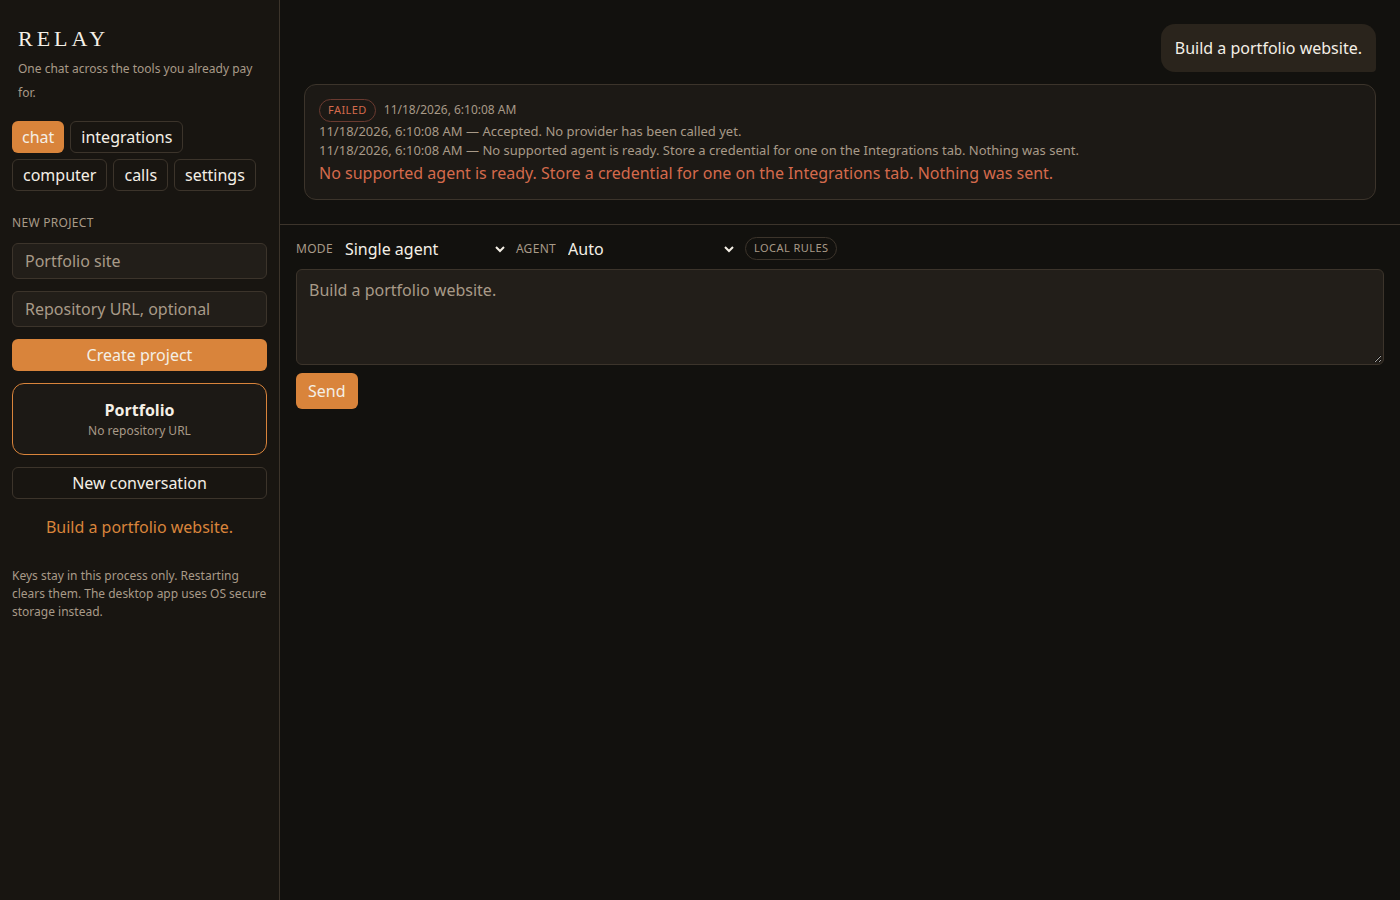
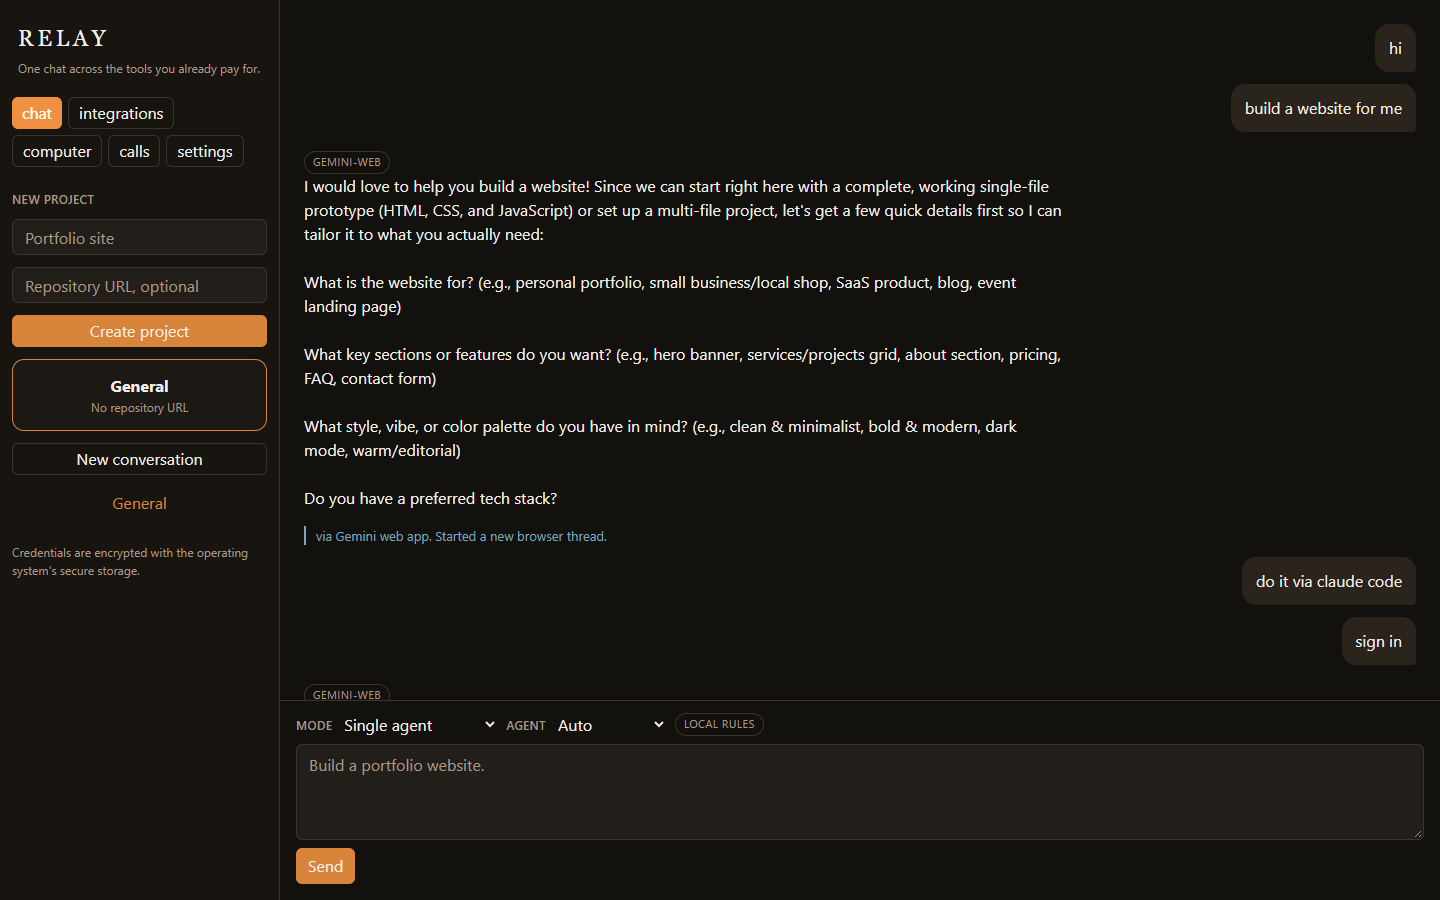
docs: launch-ready README with real screenshots, release workflow
- README: download button, why/how it works, requirements, supported
  tools, honest status; real screenshots of a Gemini reply and the VM
  desktop replace the failure-state captures and placeholder
- release.yml builds the Windows exes on tag push and attaches them
  to the GitHub Release

diff --git a/README.md b/README.md
@@ -1,98 +1,103 @@
+<div align="center">
+
 # Relay
 
-One desktop chat that drives the AI websites you are already signed into. The browser runs inside Relay's Linux machine. You sign in there yourself, including MFA or a human check. Relay types the prompt, waits for the page to finish, and copies the answer back with a label such as "via Claude web app".
+**One chat for the AI tools you already pay for.**
 
-API keys are optional and off unless you turn them on. Relay does not type or store your website password.
+ChatGPT · Claude · Gemini · Grok · Perplexity · Claude Code · Cursor
 
-## Status
+No API keys. Relay drives the real web apps inside a private Linux VM on your PC and brings the answers back to one chat.
 
-This is version 0.1.0.
+[![Download for Windows](https://img.shields.io/badge/Download-Windows-2ea44f?style=for-the-badge&logo=windows)](https://github.com/manjeetsingh-satveer/Relay/releases/latest)
+&nbsp;
+[![MIT License](https://img.shields.io/badge/license-MIT-blue?style=for-the-badge)](LICENSE)
 
-- The default path is the website in the VM: Claude, ChatGPT, Gemini, Perplexity, and the Grok website. Selectors for each site are in `src/browser/sites.ts`.
-- Claude Code and the Cursor CLI run inside that same VM, using the login on that machine.
-- API adapters remain available after you enable them in Settings.
-- Drex can still choose an agent when you store a Nace key. Without that key, routing is local rules or the agent you pick.
-- Grok Bot chat and Grok Bot phone calls are unsupported.
-- The Computer tab is QEMU plus noVNC. The download does not contain Ubuntu or a browser profile.
+</div>
 
-The website flow was tested against local fixture pages in Chrome, not against live claude.ai or chatgpt.com. A logged-in VM desktop was not booted here. See [docs/integrations.md](docs/integrations.md).
+![Relay chat: a request answered by Gemini's web app, labelled "via Gemini web app"](docs/images/chat.png)
 
-![Chat after a send with no provider connected. The task is marked failed and no assistant reply was added.](docs/images/chat.png)
+*A real answer from Gemini's web app, sent from Relay's chat. Every reply is labelled with the tool that wrote it.*
 
-That capture is the real chat, on a machine with no API keys. The task failed. Relay did not invent a reply.
+## Why Relay
 
-![Computer tab preflight. QEMU is installed. This user cannot open /dev/kvm, so provisioning stays blocked until software emulation is approved.](docs/images/computer.png)
+- **Use your subscriptions, not API bills.** ChatGPT Plus, Claude Pro, Gemini, Grok, and Perplexity already include the models. Relay uses the web apps you're signed into, so there are no keys to buy or paste.
+- **One chat, many models.** Type once. Relay picks the right tool: coding goes to Claude Code or Cursor, research to Perplexity, and everything else to Claude, ChatGPT, or Gemini. You can also pick one yourself.
+- **Automatic escalation.** If a model hits a usage cap, isn't signed in, or times out, Relay hands the same task to the next ready model instead of giving up.
+- **Draft → review → revise.** Collaborative mode has one model draft, a second review, and the first revise.
+- **Private by design.** Everything runs on your PC in an isolated Ubuntu VM. You sign in yourself. Relay never types or stores your passwords, and it never invents a reply when a tool fails.
 
-That capture is the real Computer tab on the build machine. It is not a booted desktop. A recording of a running guest does not exist yet.
+## How it works
 
-![Placeholder, not a screenshot](docs/images/placeholder.svg)
+![The Relay VM desktop with ChatGPT open in Chromium](docs/images/desktop.png)
 
-The SVG is a placeholder for a future capture of a booted guest or a finished agent task. It is not a demo.
+1. Relay starts a small **Ubuntu 24.04 VM** with QEMU (hardware-accelerated with Windows Hypervisor Platform).
+2. The VM opens straight into a desktop with **Chromium**, app icons for each AI site, and the **Claude Code, Cursor, Gemini, Codex, and GitHub Copilot CLIs** preinstalled.
+3. You sign in to each site once, in the **Computer** tab.
+4. When you send a message, Relay uses **Playwright** to type it into the right site, waits for the answer to finish, and copies it back into your chat.
 
-## Quick start
+## Get started
 
-Repository: https://github.com/manjeetsingh-satveer/Relay
+**Requirements**
 
-Requires Node.js 22 or newer.
+- Windows 10 or 11, 64-bit
+- [QEMU for Windows](https://qemu.weilnetz.de/w64/) installed (Relay does not bundle it)
+- **Windows Hypervisor Platform** turned on (*Turn Windows features on or off*)
+- At least **8 GB RAM** (the VM needs about 1.6 GB free) and about 15 GB of disk
+
+**Install**
+
+1. Download `Relay-Setup-x.y.z.exe` (installer) or the portable `.exe` from [Releases](https://github.com/manjeetsingh-satveer/Relay/releases/latest).
+2. Windows SmartScreen may warn you because the app isn't code-signed yet. Click **More info → Run anyway**.
+3. Open Relay. The first launch downloads the official Ubuntu cloud image (checked against Ubuntu's SHA256 list) and sets up the VM. This takes about 10 minutes.
+4. In the **Computer** tab, double-click each AI app icon on the VM desktop and sign in. For the CLIs, open the VM terminal and run `claude` or `cursor-agent` once.
+5. Go to **chat** and type into the **General** conversation.
+
+## Supported tools
+
+| Tool | How Relay uses it | You need |
+| --- | --- | --- |
+| ChatGPT, Claude, Gemini, Grok, Perplexity | Their web app in the VM's Chromium | To sign in once in the VM |
+| Claude Code, Cursor CLI | The CLI inside the VM | To log in once in the VM terminal |
+| Gemini CLI, Codex CLI, GitHub Copilot CLI | Preinstalled in the VM for you to use | To log in once in the VM terminal |
+| OpenAI, Anthropic, Gemini, Perplexity, xAI APIs | Optional, off by default | An API key, if you turn it on in Settings |
+
+Each site's selectors are in [`src/browser/sites.ts`](src/browser/sites.ts). Details are in [docs/integrations.md](docs/integrations.md).
+
+> **Note:** Automating a consumer website can conflict with that service's terms. You use Relay with your own accounts, at your own discretion. [docs/integrations.md](docs/integrations.md) links each provider's terms.
+
+## Build from source
+
+Requires Node.js 22+.
 
 ```bash
 git clone https://github.com/manjeetsingh-satveer/Relay.git
 cd Relay
 npm ci
 npm test
-npm run dev
+npm run dist:win     # builds release/Relay-Setup-*.exe and a portable .exe
 ```
 
-Open http://127.0.0.1:43123.
+Use `npm run dev` for the web UI with a local API at http://127.0.0.1:43123, or `npm run build && npm run desktop` for the Electron app.
 
-Create a project. To use a website, start the VM from Computer and sign in on that desktop. Sending before the VM browser is up fails, and the transcript does not invent an assistant reply.
+More: [architecture](docs/architecture.md) · [VM details](docs/vm.md) · [troubleshooting](docs/troubleshooting.md) · [contributing](CONTRIBUTING.md) · [good first issues](docs/good-first-issues.md)
 
-Dev mode keeps optional API keys in memory. The Electron app can store those keys with the OS when you enable the API path. Website passwords are never stored.
+## Status
 
-## Desktop app
+Relay is **v0.1, early but working**. Gemini's web app has answered end to end, and the VM, desktop, and CLIs are installed automatically. Known gaps:
 
-```bash
-npm run build
-npm run desktop
-```
-
-The Electron build stores keys with the OS secure store when encryption is available (DPAPI on Windows).
-
-A Windows installer and a portable executable are built on a Windows GitHub Actions runner. See [.github/workflows/ci.yml](.github/workflows/ci.yml). This Linux checkout does not produce the `.exe`. The workflow uploads `release/*.exe`. Those files are the app only.
-
-## The Linux machine
-
-Open Computer, run the check, then download. Relay fetches the official Ubuntu 24.04 cloud image and verifies its SHA256. It does not verify the checksum file's GPG signature. QEMU is not bundled. Details are in [docs/vm.md](docs/vm.md).
-
-## Integrations
-
-The table in the app is the same registry as [docs/integrations.md](docs/integrations.md). Short version:
-
-| | Default path | Needs |
-| --- | --- | --- |
-| Claude, ChatGPT, Gemini, Perplexity, Grok website | The site in the VM browser | You sign in on the Computer tab. No API key |
-| Claude Code, Cursor CLI | The CLI inside the VM | That binary, and the login you create there |
-| OpenAI, Anthropic, Gemini, Perplexity, xAI, Cursor APIs | Off until Settings enables API keys | An API key, which a website login does not include |
-| Nace Drex | Optional router | API key. Local rules work without it |
-| Grok Bot, including phone calls | Unsupported | No documented API |
-| Comet | Unsupported | No documented task API. perplexity.ai is the web path |
-
-Driving a consumer website can conflict with that service's terms. The matrix in [docs/integrations.md](docs/integrations.md) links each terms page.
-
-## Develop
-
-[docs/architecture.md](docs/architecture.md) · [CONTRIBUTING.md](CONTRIBUTING.md) · [docs/troubleshooting.md](docs/troubleshooting.md) · [docs/good-first-issues.md](docs/good-first-issues.md)
+- Site selectors break when providers change their pages. Fixes to `src/browser/sites.ts` are very welcome.
+- The Windows build isn't code-signed yet.
+- Low-RAM PCs (under 8 GB) may struggle to run the VM.
+- Grok Bot phone calls aren't supported (there's no documented API).
 
 ## Security
 
-[SECURITY.md](SECURITY.md). The API listens on 127.0.0.1. Do not commit keys, chats, browser profiles, or VM disks.
+Relay's API listens only on `127.0.0.1`. Optional API keys are encrypted with Windows DPAPI. Website passwords are never typed or stored by Relay. See [SECURITY.md](SECURITY.md).
 
 ## License
 
-MIT. Copyright 2026 Manjeet Singh. Third-party programs are not included. See [docs/third-party.md](docs/third-party.md).
+MIT © 2026 Manjeet Singh. Third-party programs (QEMU, Ubuntu, Chromium) are not included. See [docs/third-party.md](docs/third-party.md).
 
-## GitHub
+---
 
-Issues and pull requests: https://github.com/manjeetsingh-satveer/Relay/issues
-
-Topic suggestions are in [docs/github.md](docs/github.md). This README has no download counter and no CI badge. The Actions workflow has not run on GitHub yet, so a badge would be a broken image.
+If Relay saves you a few browser tabs, **give it a ⭐** to help others find it.
